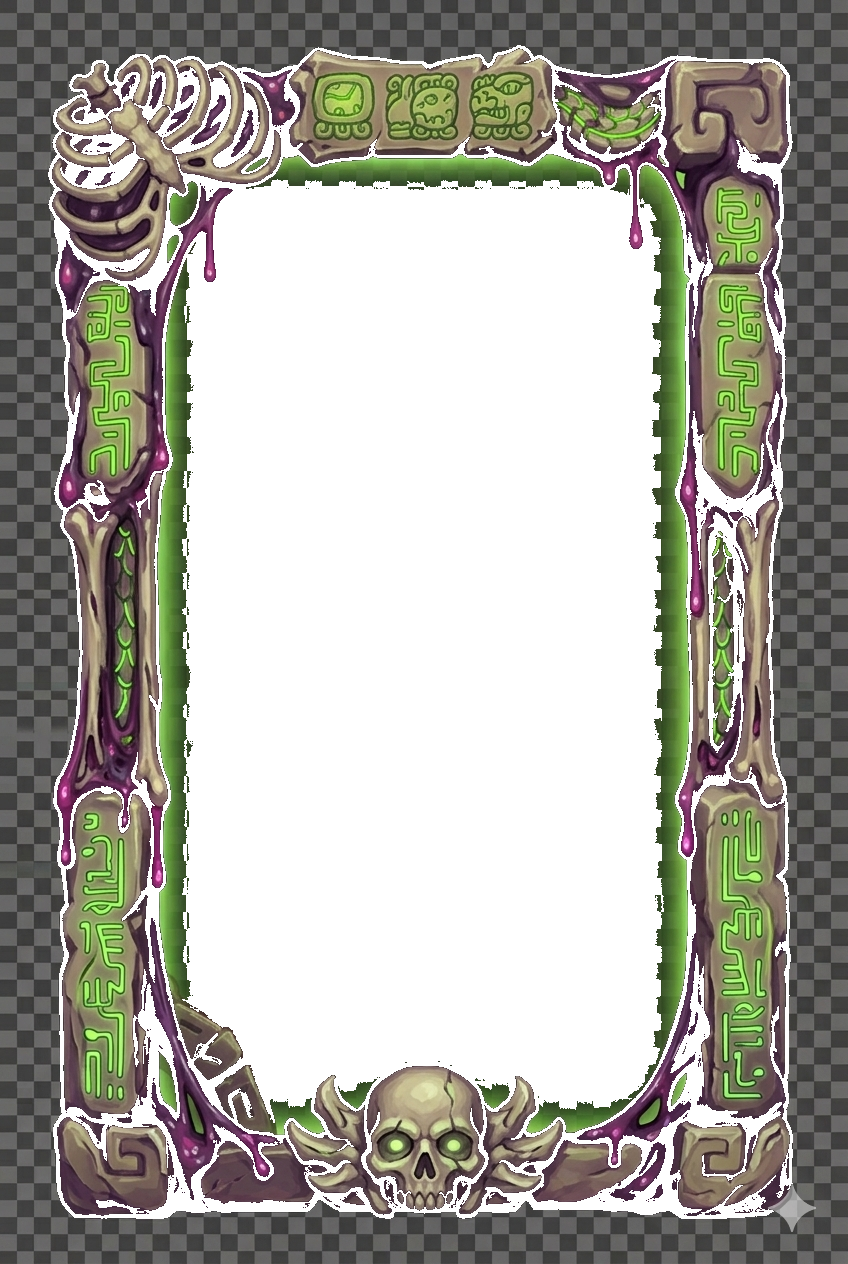
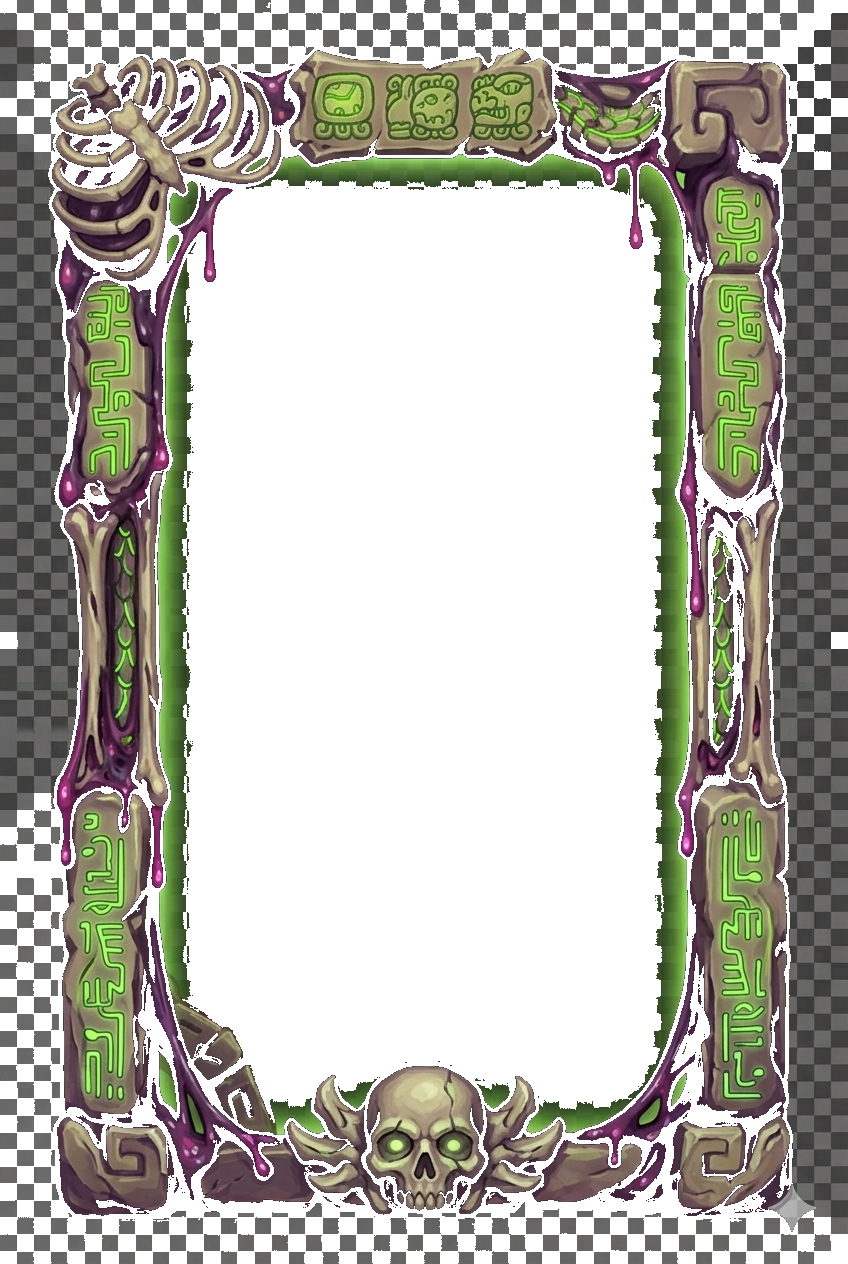
fix(ui): clean transparent frames + bigger Skirmish cards
The Gemini frames had a fake-transparent checkerboard in the OUTER margin
too (not just the centre), which showed around each card. make_faction_
frames.py now flood-fills from the corners/edges as well, so only the
ornate border stays opaque. Widened the faction column and enlarged the
cards (212x316) with proportional border insets and a compact coloured
stat line, so the emblem, name, stats and description fit cleanly inside
the frame instead of clipping.

diff --git a/tools/make_faction_frames.py b/tools/make_faction_frames.py
@@ -37,9 +37,13 @@ def main() -> None:
 		# Flood-fill the centre (and a few interior seeds) to a sentinel colour;
 		# the border's bright neon glow is far enough in colour to stop the fill.
 		rgb = im.convert("RGB")
+		# Interior seeds clear the centre; corner/edge seeds clear the outer
+		# checkerboard margin between the ornate art and the texture edge.
 		seeds = [(w // 2, h // 2), (w // 2, h // 3), (w // 2, 2 * h // 3),
 			(w // 3, h // 2), (2 * w // 3, h // 2),
-			(w // 2, int(h * 0.42)), (w // 2, int(h * 0.58))]
+			(w // 2, int(h * 0.42)), (w // 2, int(h * 0.58)),
+			(1, 1), (w - 2, 1), (1, h - 2), (w - 2, h - 2),
+			(w // 2, 1), (w // 2, h - 2), (1, h // 2), (w - 2, h // 2)]
 		for s in seeds:
 			ImageDraw.floodfill(rgb, s, SENT, thresh=THRESH)
 		arr = np.array(im)
